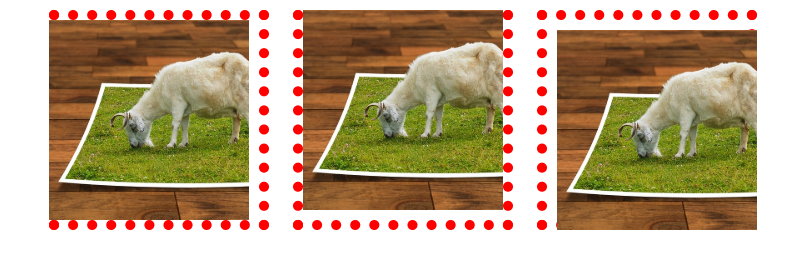
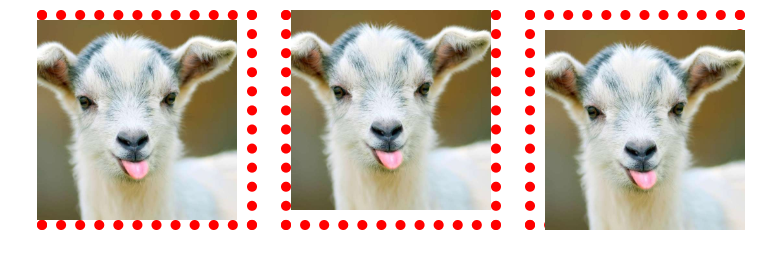
updated images

diff --git a/Relative/css/style.css b/Relative/css/style.css
@@ -18,7 +18,23 @@ div.outer {
 div.inner {
 	width: 200px;
 	height: 200px;
-	background-image: url('https://cdn.pixabay.com/photo/2013/04/06/11/50/image-editing-101040_960_720.jpg');
+	background-image: url('https://images.mentalfloss.com/sites/default/files/styles/mf_image_16x9/public/iStock-177369626_1.jpg?itok=DyZrFgNX&resize=1100x1100');
 	background-size: cover;
 	background-position: center;
+}
+
+.one {
+	position: relative;
+	left: -10px;
+}
+
+.two {
+	position: relative;
+	top: -10px;
+}
+
+.three {
+	position: relative;
+	top: 10px;
+	left: 10px;
 }

diff --git a/Absolute/css/style.css b/Absolute/css/style.css
@@ -6,7 +6,7 @@ body {
 	height: 500px;
 	width: 800px;
 	margin: 0 auto;
-	background-image: url('https://cdn.pixabay.com/photo/2013/04/06/11/50/image-editing-101040_960_720.jpg');
+	background-image: url('https://images.mentalfloss.com/sites/default/files/styles/mf_image_16x9/public/iStock-177369626_1.jpg?itok=DyZrFgNX&resize=1100x1100');
 	background-size: cover;
 	background-position: center;
 }

diff --git a/Relative/index.html b/Relative/index.html
@@ -8,13 +8,13 @@
 <body>
 	<div class="container">
 		<div class="outer">
-			<div class="inner"></div>
+			<div class="inner one"></div>
 		</div>
 		<div class="outer">
-			<div class="inner"></div>
+			<div class="inner two"></div>
 		</div>
 		<div class="outer">
-			<div class="inner"></div>
+			<div class="inner three"></div>
 		</div>
 	</div>
 </body>
